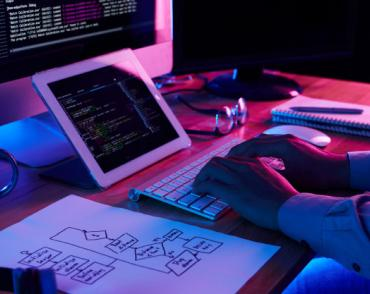
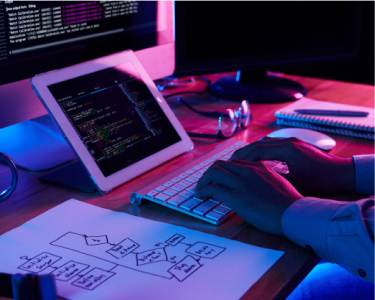
fix: optimize pictures, address link in footer
fix: optimize pictures, address link in the footer

diff --git a/index.html b/index.html
@@ -17,8 +17,8 @@
         </ul>
       </nav>
       <ul>
-        <li><a href="mailto:info@devstudio.com">info@devstudio.com</a></li>
-        <li><a href="tel:+380961111111">+38 096 111 11 11</a></li>
+        <li><a href="mailto:info@example.com">info@example.com</a></li>
+        <li><a href="tel:+12127724150">+1 212-772-4150</a></li>
       </ul>
     </header>
     <main>
@@ -33,28 +33,28 @@
 
         <ul>
           <li>
-            <h3>attention to details</h3>
+            <h3>Attention to details</h3>
             <p>
               We go into all the details and processes of your business to
               develop a customized solution.
             </p>
           </li>
           <li>
-            <h3>punctuality</h3>
+            <h3>Punctuality</h3>
             <p>
               With us, you can feel safe and secure. An important principle of
               the company: respect your time and respect the agreed deadlines.
             </p>
           </li>
           <li>
-            <h3>planning</h3>
+            <h3>Planning</h3>
             <p>
               You will be able to observe and participate in every phase of
               solution development and implementation.
             </p>
           </li>
           <li>
-            <h3>modern technologies</h3>
+            <h3>Modern technologies</h3>
             <p>
               We use innovative tools to solve assigned tasks. It's time to
               simplify work processes.
@@ -89,34 +89,35 @@
         <ul>
           <li>
             <img
-              src="./images/demianenko.jpg"
-              alt="Demianenko's picture"
+              src="./images/walker.jpg"
+              alt="Walker's picture"
               width="270"
             />
-            <h3 lang="ru">Игорь Демьяненко</h3>
+            <h3>Christopher Walker</h3>
             <p>Product Designer</p>
           </li>
           <li>
-            <img src="./images/repina.jpg" alt="Repina's picture" width="270" />
-            <h3 lang="ru">Ольга Репина</h3>
+            <img src="./images/evans.jpg"
+              alt="Evans's picture" width="270" />
+            <h3>Kylie Evans</h3>
             <p>Frontend Developer</p>
           </li>
           <li>
             <img
-              src="./images/tarasov.jpg"
-              alt="Tarasov's picture"
+             src="./images/harris.jpg"
+              alt="Harris's picture"
               width="270"
             />
-            <h3 lang="ru">Николай Тарасов</h3>
+            <h3>Ryan Harris</h3>
             <p>Marketing</p>
           </li>
           <li>
             <img
-              src="./images/ermakov.jpg"
-              alt="Ermakov's picture"
+              src="./images/moore.jpg"
+              alt="Moore's picture"
               width="270"
             />
-            <h3 lang="ru">Михаил Ермаков</h3>
+            <h3>Tyler Moore</h3>
             <p>UI Designer</p>
           </li>
         </ul>
@@ -127,11 +128,19 @@
       <address>
         <ul>
           <li>
-            695 Park Ave, New York, NY 10065, <br />
-            United States
+            <a
+              href="https://goo.gl/maps/2W4BNmpUxYPG9jQW8"
+              target="_blank"
+              rel="noopener noreferrer nofollow"
+              >695 Park Ave, New York, NY 10065, United States</a
+            >
           </li>
-          <li><a href="mailto:info@devstudio.com">info@devstudio.com</a></li>
-          <li><a href="tel:+380961111111">+38 096 111 11 11</a></li>
+          <li>
+            <a href="mailto:info@example.com">info@example.com</a>
+          </li>
+          <li>
+            <a href="tel:+12127724150">+1 212-772-4150</a>
+          </li>
         </ul>
       </address>
     </footer>
